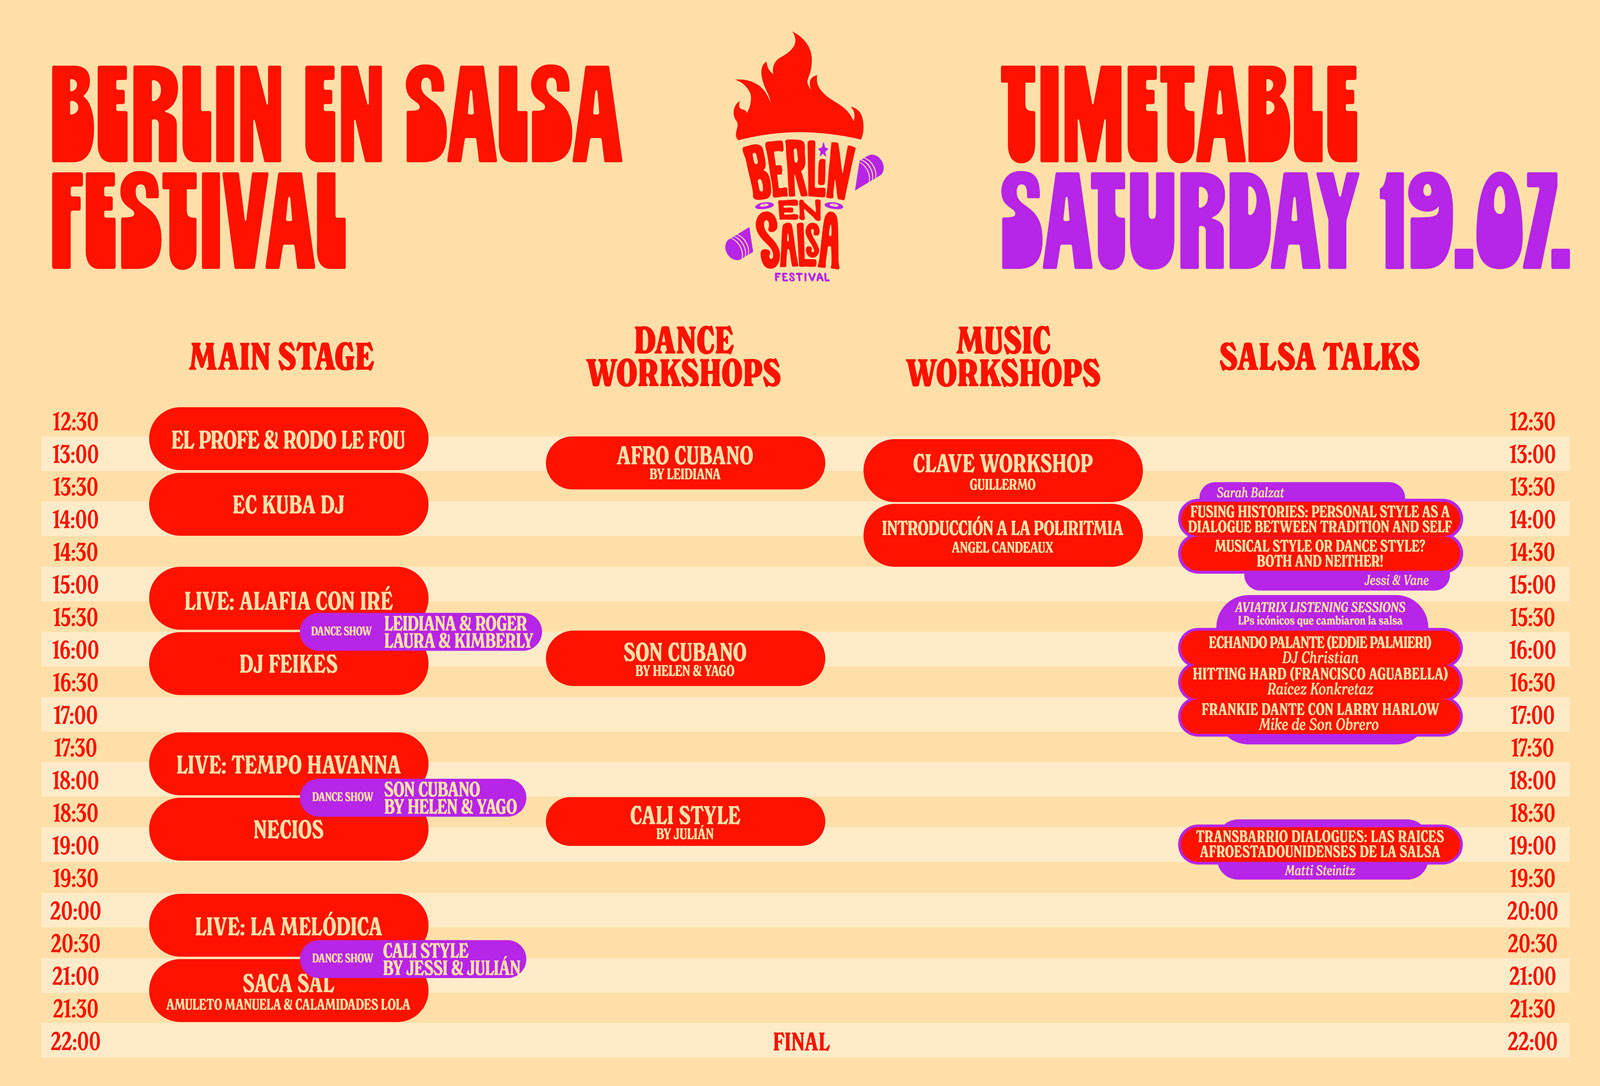
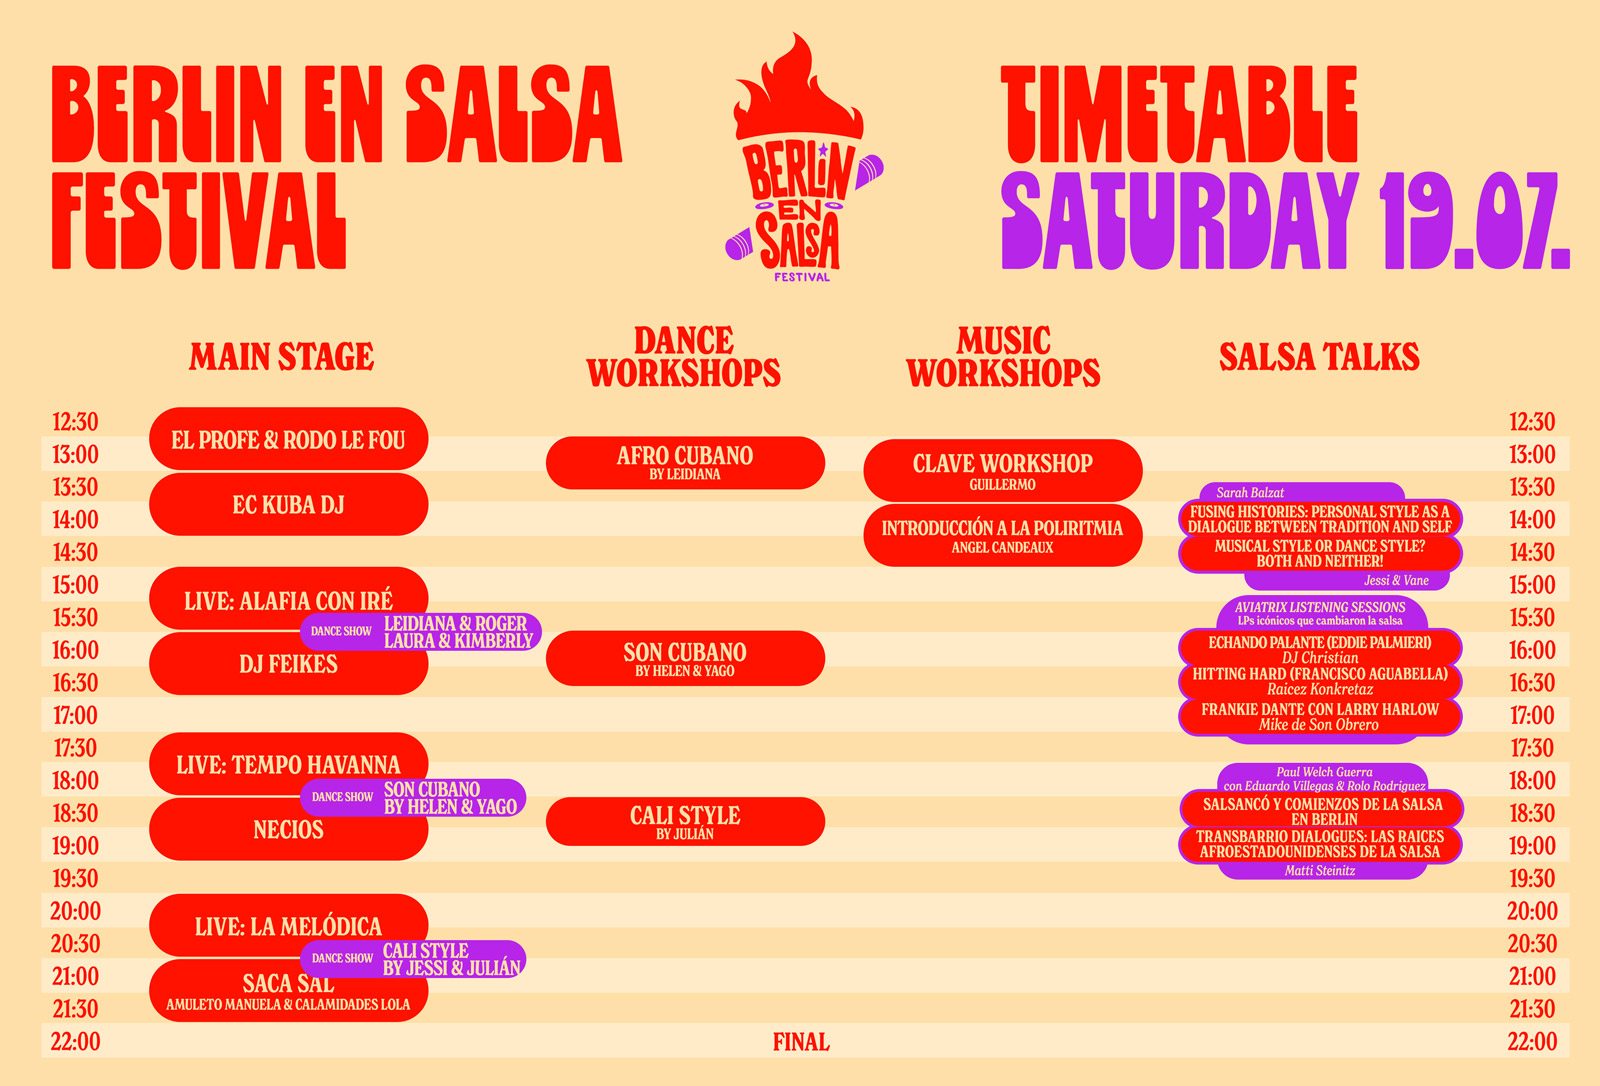
v 1.0.15

diff --git a/README.md b/README.md
@@ -2,6 +2,10 @@ Versions:
 
 whats's done:
 
+v 1.0.15
+
+- new program
+
 v 1.0.14
 
 - THF Link added
